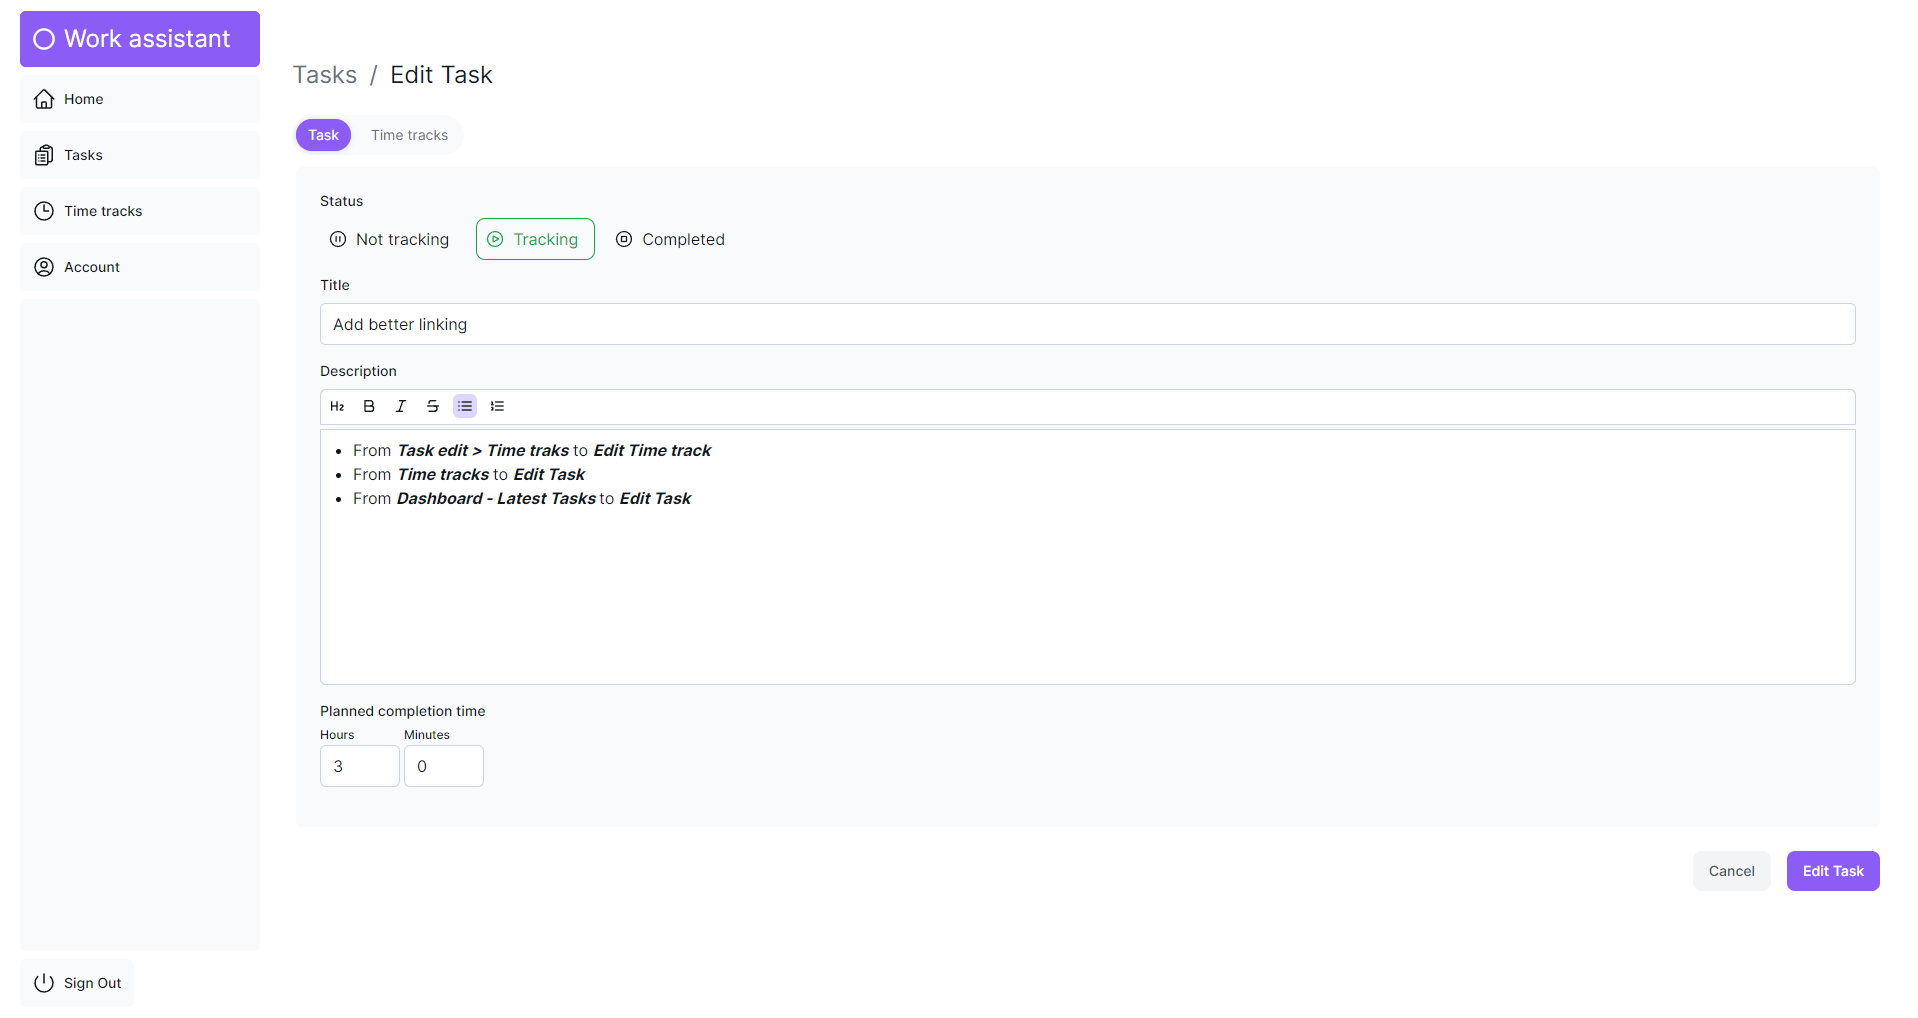
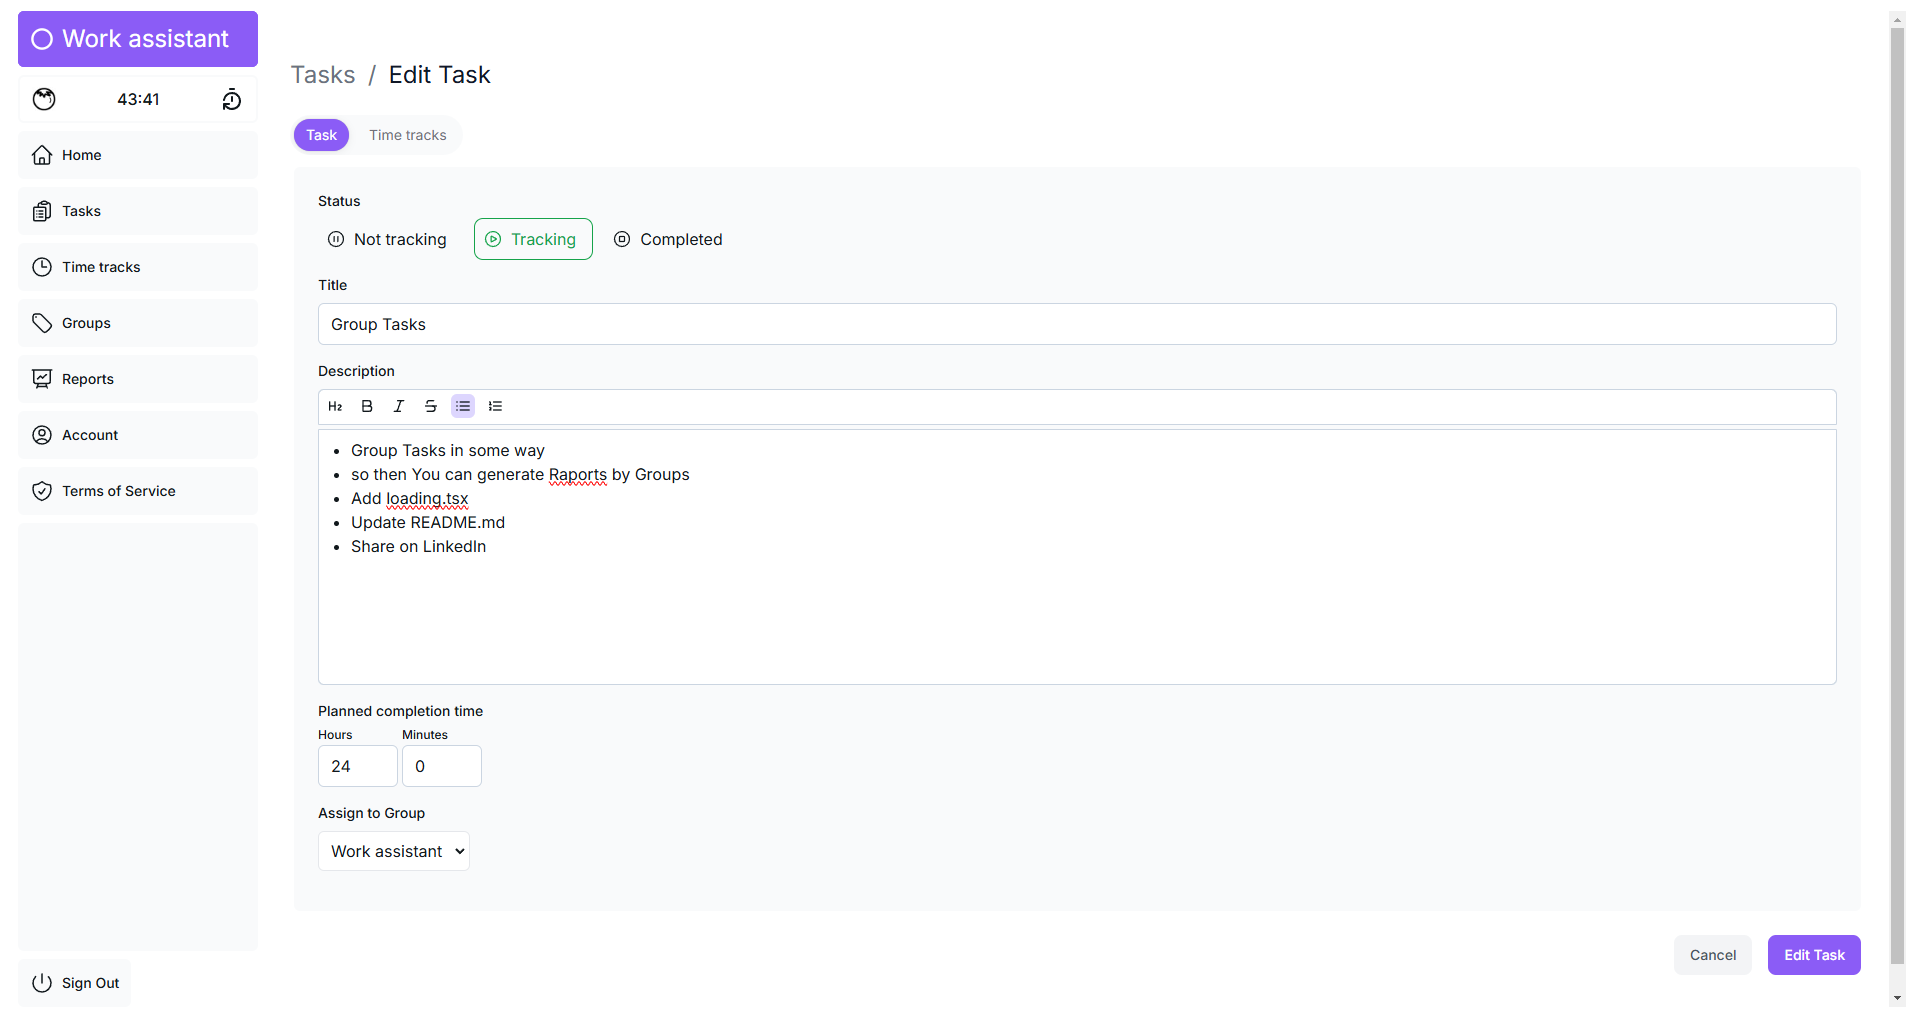
Update docs about Tasks Grouping

diff --git a/src/app/dashboard/groups/[id]/edit/page.tsx b/src/app/dashboard/groups/[id]/edit/page.tsx
@@ -26,7 +26,7 @@ export default async function Page({ params }: {params: { id: string }}) {
     <main>
       <Breadcrumbs
         breadcrumbs={[
-          { label: 'Group', href: '/dashboard/groups' },
+          { label: 'Groups', href: '/dashboard/groups' },
           {
             label: 'Edit Group',
             href: `/dashboard/groups/${id}/edit`,

diff --git a/README.md b/README.md
@@ -31,6 +31,7 @@ This project leverages a modern tech stack to deliver a robust and scalable appl
 - **Time Tracking:** Start and stop tracking time for tasks.
 - **Task Completion:** Mark tasks as complete.
 - **Time Tracks Management:** View and edit all your time tracks.
+- **Task Grouping:** Organize tasks into groups for easier management and reporting.
 - **Dashboard Reports:** Get a comprehensive overview of your work with various reports:
   - Number of created tasks.
   - Total tracked hours.
@@ -40,6 +41,7 @@ This project leverages a modern tech stack to deliver a robust and scalable appl
 - **Reports Module:** Generate detailed reports based on different categories such as day, week, month, and task. This helps in understanding your productivity trends and making informed decisions.
   - **Report Categories:** Choose from Day, Week, Month, or Task to view specific report.
   - **Date Range Selection:** Use the date range picker to specify the period for your report.
+  - **Group Selection:** Filter reports by the Group assigned to tasks for a more detailed analysis.
   - **Dynamic Report Generation:** Reports are generated dynamically based on selected criteria.
   - **Data Visualization:** View tracked time and averages in a tabular format for easy analysis.
 - **Pomodoro Timer:** A background timer to enhance focus and productivity:
@@ -51,7 +53,6 @@ This project leverages a modern tech stack to deliver a robust and scalable appl
 
 ### Planned
 
-- **Hierarchical Tasks:** Organize tasks in a hierarchical structure.
 - **Export Reports:** Export your work status and reports.
 - **AI Assistance:** Get help and insights from AI.
 
@@ -63,11 +64,15 @@ This project leverages a modern tech stack to deliver a robust and scalable appl
 ![Delete Task](screenshots/delete-task.png)
 ![Task Time tracks](screenshots/task-time-tracks.png)
 ![Time tracks](screenshots/time-tracks.png)
+![Groups](screenshots/groups.png)
+![Create Group](screenshots/create-group.png)
+![Delete Group](screenshots/delete-group.png)
 ![Report selection](screenshots/report-select.png)
 ![Report per Day](screenshots/report-per-day.png)
 ![Report per Week](screenshots/report-per-week.png)
 ![Report per Month](screenshots/report-per-month.png)
 ![Report per Task](screenshots/report-per-task.png)
+![Report per Task and Group](screenshots/report-per-task-and-group.png)
 ![Account](screenshots/account.png)
 ![Terms of Service and Privacy Policy page](screenshots/terms-of-service-page.png)
 ![Terms of Service and Privacy Policy](screenshots/terms-of-service.png)
